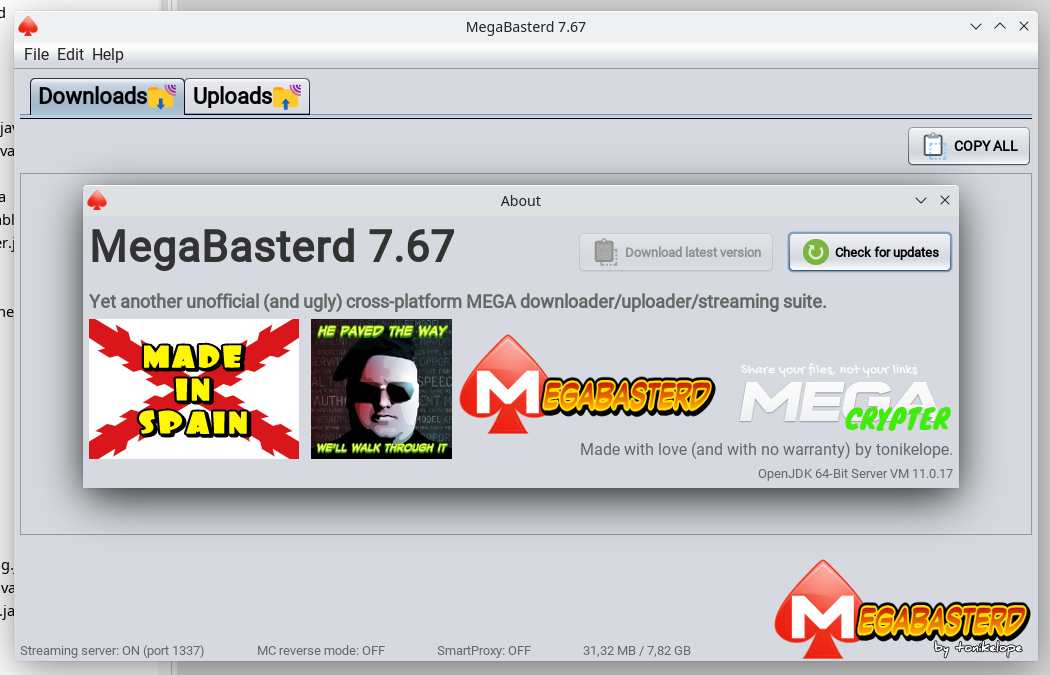
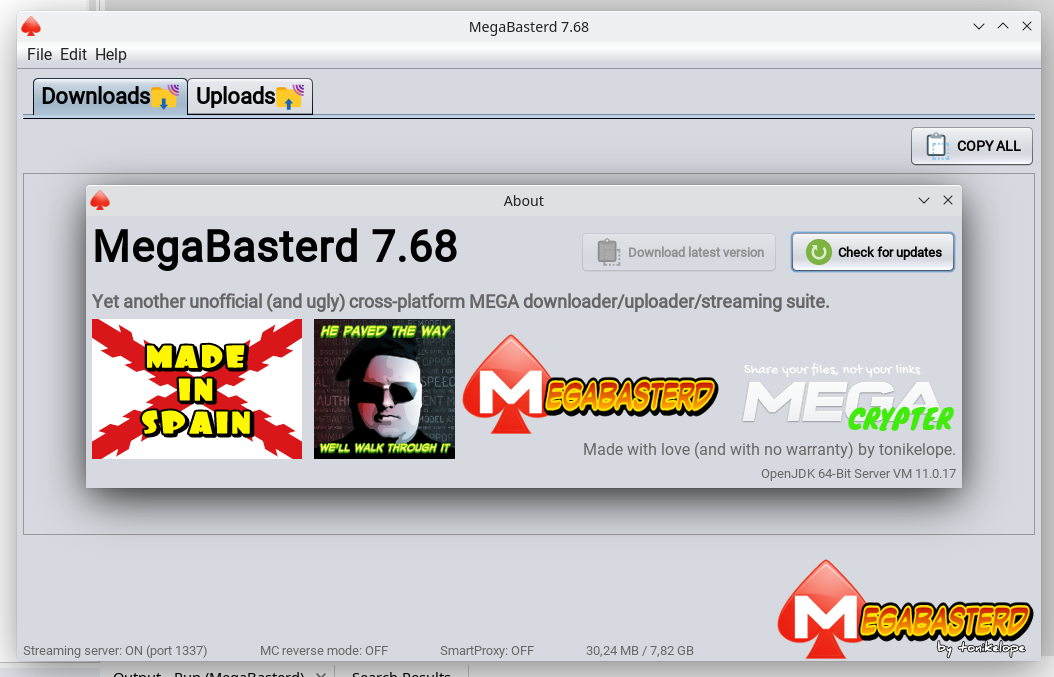
7.68
Filegrabber accounts sort
Settings new accounts check cancel

diff --git a/src/main/java/com/tonikelope/megabasterd/MainPanel.java b/src/main/java/com/tonikelope/megabasterd/MainPanel.java
@@ -67,7 +67,7 @@ import javax.swing.UIManager;
  */
 public final class MainPanel {
 
-    public static final String VERSION = "7.67";
+    public static final String VERSION = "7.68";
     public static final boolean FORCE_SMART_PROXY = false; //TRUE FOR DEBUGING SMART PROXY
     public static final int THROTTLE_SLICE_SIZE = 16 * 1024;
     public static final int DEFAULT_BYTE_BUFFER_SIZE = 16 * 1024;

diff --git a/src/main/java/com/tonikelope/megabasterd/SettingsDialog.java b/src/main/java/com/tonikelope/megabasterd/SettingsDialog.java
@@ -1769,7 +1769,7 @@ public class SettingsDialog extends javax.swing.JDialog {
     }// </editor-fold>//GEN-END:initComponents
 
     private void cancel_buttonActionPerformed(java.awt.event.ActionEvent evt) {//GEN-FIRST:event_cancel_buttonActionPerformed
-        _exit = false;
+        _exit = true;
         setVisible(false);
     }//GEN-LAST:event_cancel_buttonActionPerformed
 
